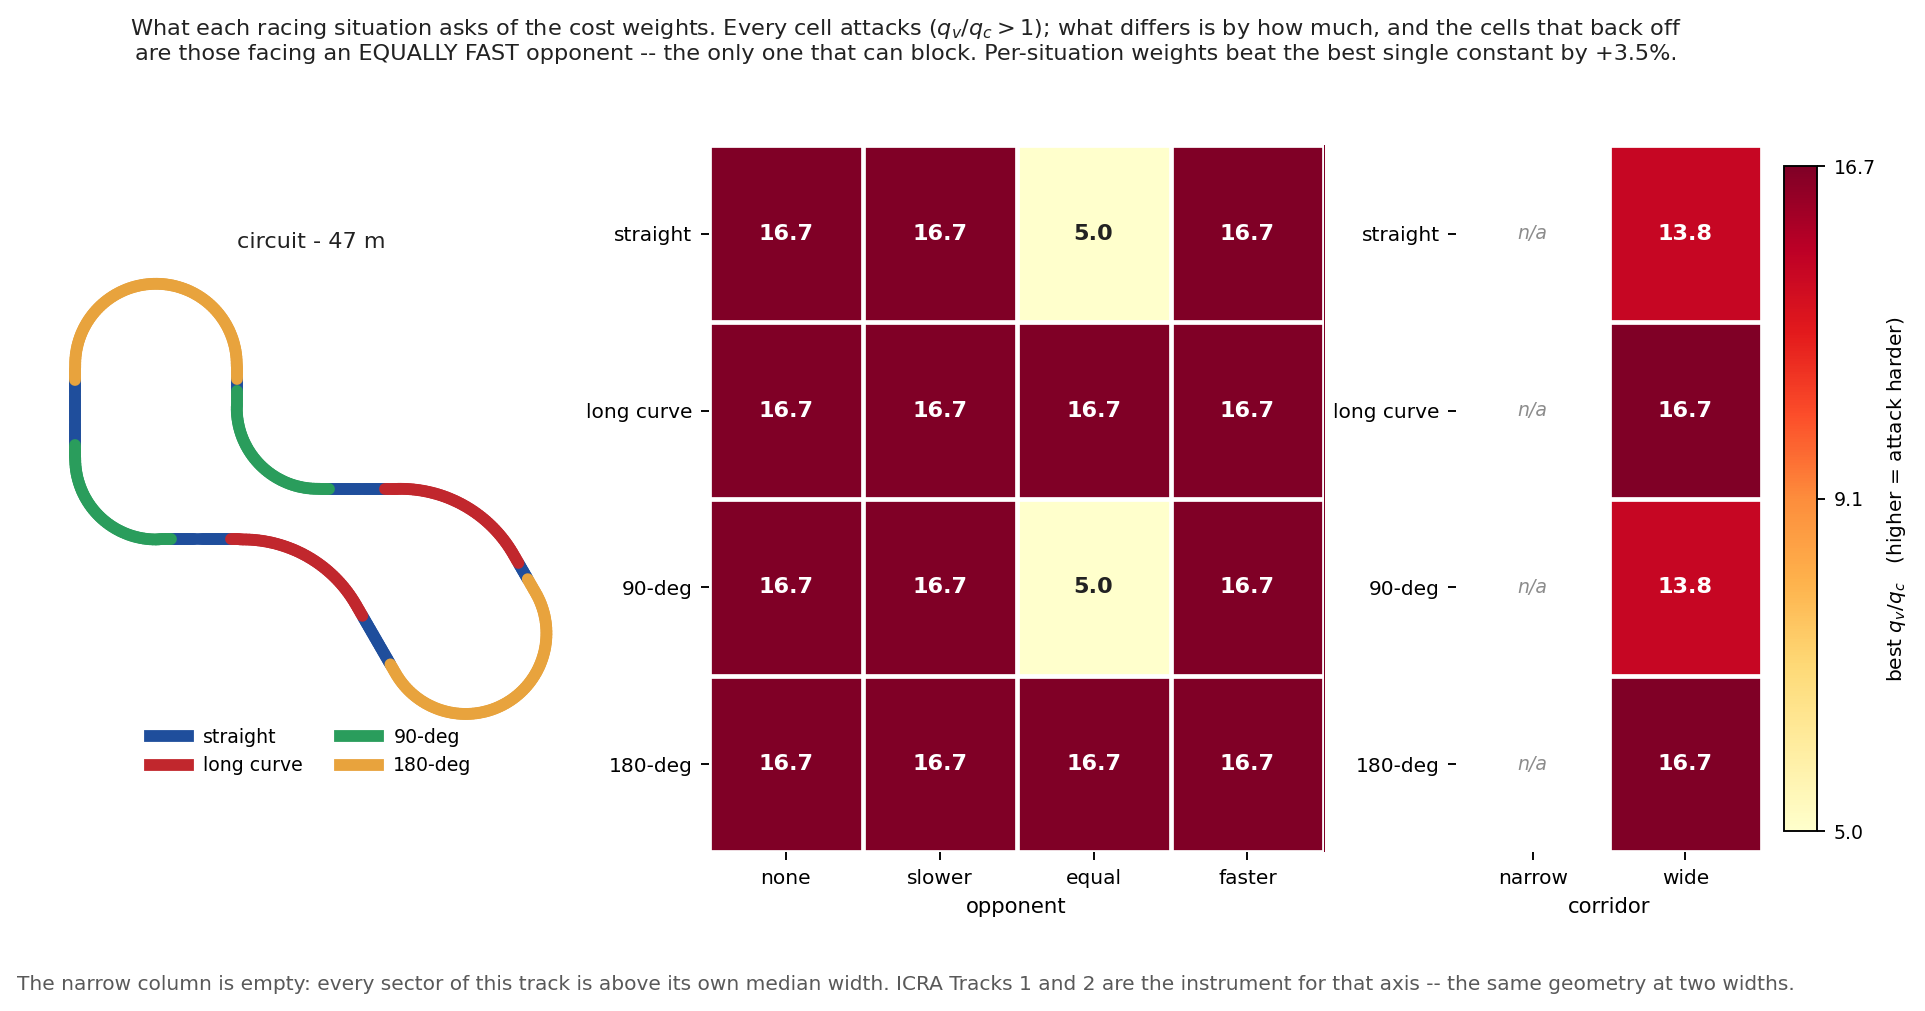
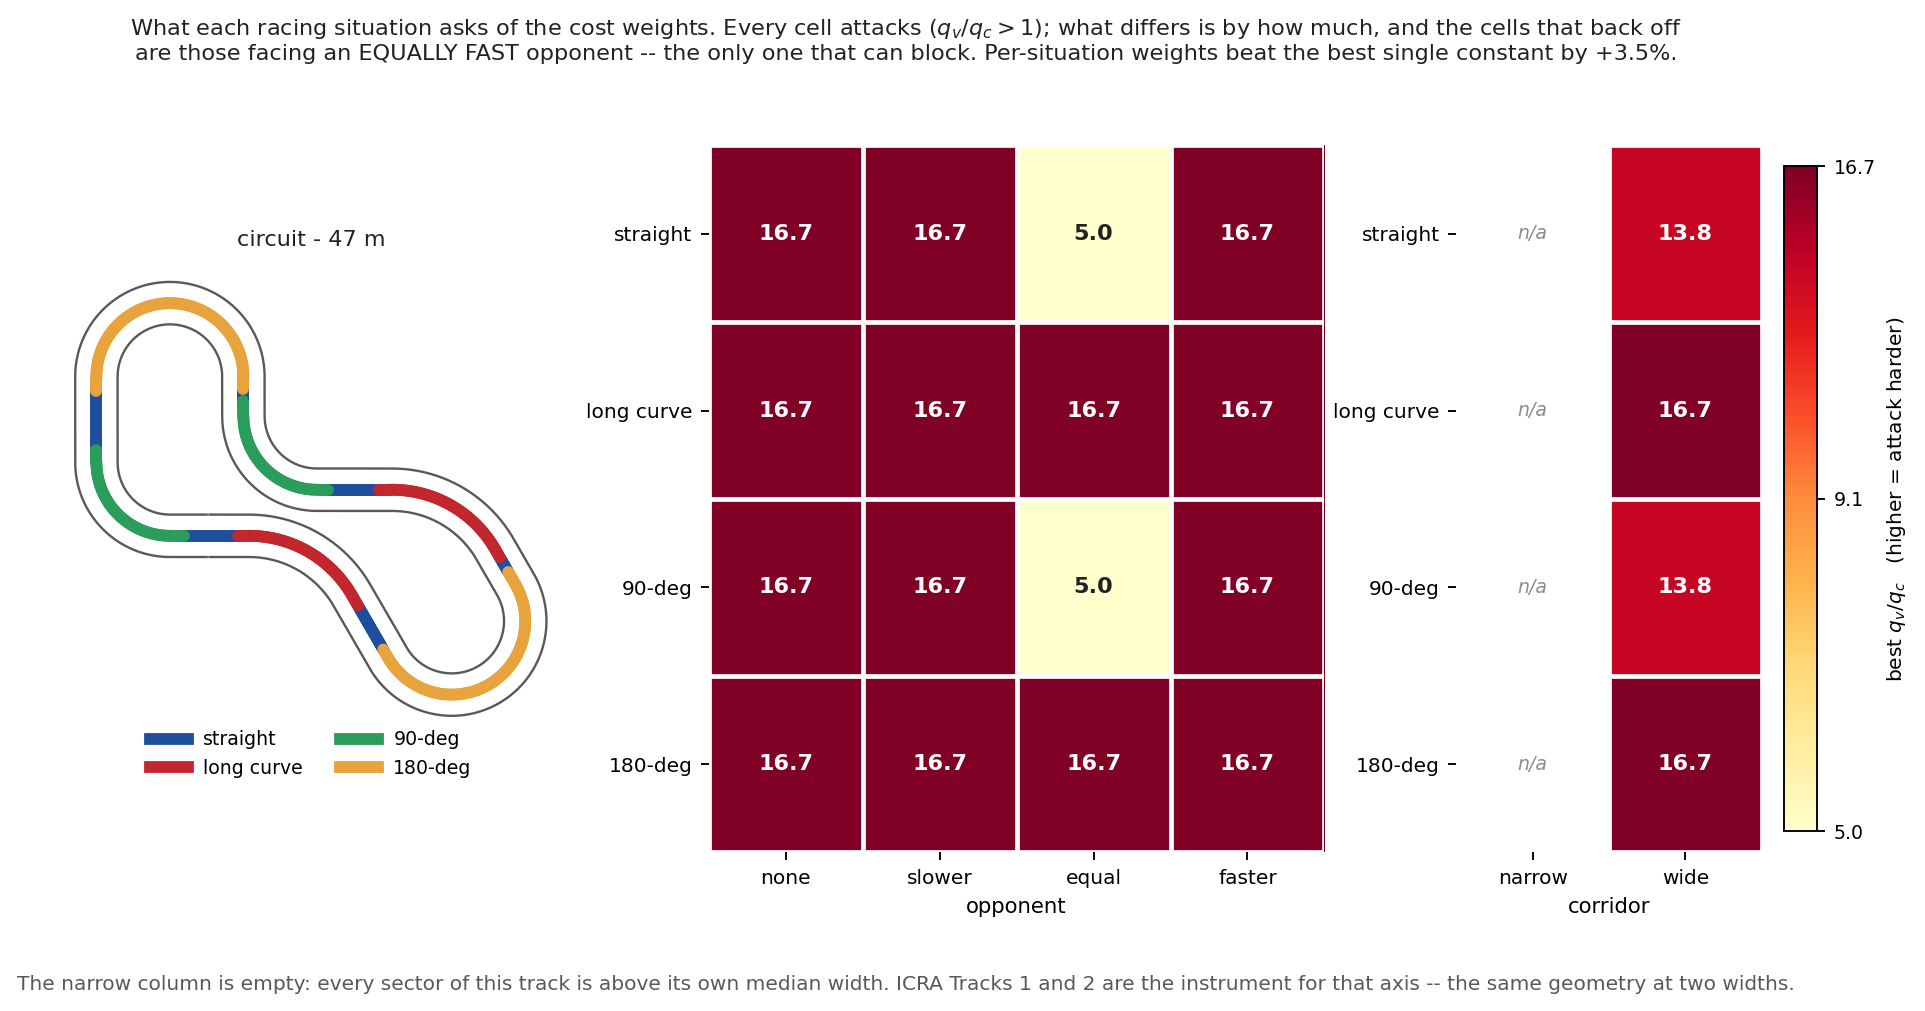
Draw the track BOUNDARIES, asked for repeatedly and not done
Every track figure here drew a centreline and left the walls implicit.
That is wrong everywhere and worst on the competition maps, whose
corridor varies by a factor of 4.5 (T1) and 6.4 (T2) round a lap: where
the track is wide and where it pinches is most of what a reader wants,
and a bare centreline hides all of it.

corridor_edges() builds both walls from the centreline gradient, since
Track carries no normal. Safe to draw now -- on the raceline tracks the
reconstructed centre is smoothed, so the offset edges reverse on 0.1-2.8%
of segments instead of tangling as they did against the raw optimiser
line, which is why an earlier attempt at this was removed rather than
fixed. Added to icra_grip, strategy, and the learning animation.

Also stops icra_grip lying in its own caption. It said the slowest
corners are "32% and 29%" of the cap while the titles directly beneath
it computed 25% and 26%: the numbers moved when the corridor centre was
reconstructed from the raceline and the hardcoded caption did not. It
reads them from the data now.

Claude-Session: https://claude.ai/code/session_01MGmixkzXxYczykY66RAVme

Changed region(s): [[0.0312, 0.276, 0.3117, 0.7666], [0.0935, 0.7052, 0.1558, 0.7666], [0.1247, 0.2146, 0.187, 0.2453]]

diff --git a/scripts/make_figures.py b/scripts/make_figures.py
@@ -39,6 +39,28 @@ AMBER, SURF = "#e8a33d", "#fcfcfb"
 CAT = (BLUE, RED, GREEN, AMBER)
 
 
+
+def corridor_edges(t):
+    """The two track BOUNDARIES, as (left, right) point arrays.
+
+    Every track figure here drew the centreline and left the walls implicit,
+    which is wrong for the competition maps in particular: their corridor
+    varies by a factor of 4.5 (T1) and 6.4 (T2) round a lap, so where the track
+    is wide or tight is most of what a reader wants to see, and a bare
+    centreline hides it entirely.
+
+    Built from the centreline gradient rather than a stored normal, since Track
+    has none. Safe to draw now: on the raceline tracks the reconstructed centre
+    is smoothed, so the offset edges reverse on 0.1-2.8% of segments rather
+    than tangling as they did against the raw optimiser line.
+    """
+    g = np.gradient(t.center, axis=0)
+    n = np.stack([g[:, 1], -g[:, 0]], axis=1) / np.linalg.norm(g, axis=1)[:, None]
+    wl = np.array([float(t.width(v)[0]) for v in t.s])[:, None]
+    wr = np.array([float(t.width(v)[1]) for v in t.s])[:, None]
+    return t.center + n * wl, t.center - n * wr
+
+
 def fig_geometry():
     """What the two errors in the cost function actually are.
 
@@ -564,6 +586,10 @@ def fig_strategy(track_name="circuit"):
         if m.any():
             axt.add_collection(LineCollection(segs[m], colors=[CAT[j]],
                                               linewidth=5.0, capstyle="round"))
+    el, er = corridor_edges(tr)
+    for edge in (el, er):
+        axt.plot(edge[:, 0], edge[:, 1], "-", color=INK, lw=1.0, alpha=0.75,
+                 zorder=3)
     axt.set_aspect("equal"); axt.autoscale_view(); axt.axis("off")
     axt.set_title(f"{d['track']} - {tr.length:.0f} m", fontsize=9.5, color=INK)
     axt.legend(handles=[plt.Line2D([], [], color=CAT[j], lw=5,
@@ -672,8 +698,9 @@ def fig_icra_grip():
     tracks = [("ICRA 2026 T1", Track.icra_t1_raceline()),
               ("ICRA 2026 T2", Track.icra_t2_raceline()),
               ("circuit (synthetic)", Track.circuit())]
-    fig, axes = plt.subplots(1, 3, figsize=(13.2, 4.6))
+    fig, axes = plt.subplots(1, 3, figsize=(14.0, 4.8))
     lc = None
+    slowest = []
     for ax, (name, tr) in zip(axes, tracks):
         k = np.abs([tr.curvature(v) for v in tr.s])
         vmax = np.minimum(np.sqrt(A_LAT_MAX / np.maximum(k, 1e-6)), SPEED_MAX)
@@ -683,6 +710,11 @@ def fig_icra_grip():
                             norm=plt.Normalize(2.0, SPEED_MAX),
                             linewidth=4.0, capstyle="round")
         lc.set_array(vmax[:-1])
+        # The track BOUNDARIES, so the corridor is visible and not implied.
+        el, er = corridor_edges(tr)
+        for edge in (el, er):
+            ax.plot(edge[:, 0], edge[:, 1], "-", color=INK, lw=1.1, alpha=0.75,
+                    zorder=3)
         ax.add_collection(lc)
         # The named sector at each point, as a ring outside the line: this is
         # what the policy receives, not a post-hoc annotation.
@@ -695,6 +727,7 @@ def fig_icra_grip():
                                   alpha=0.30, capstyle="round", zorder=0)
             ax.add_collection(ring)
         ax.set_aspect("equal"); ax.autoscale_view(); ax.axis("off")
+        slowest.append(float(vmax.min()))
         frac = float((vmax >= SPEED_MAX - 1e-9).mean())
         # y fixed, so the three titles sit on one line rather than following
         # each track's bounding box.
@@ -707,16 +740,20 @@ def fig_icra_grip():
     # Below the axes, not on top of a track.
     fig.legend(handles=handles, fontsize=8.5, frameon=False, ncol=4,
                loc="lower center", bbox_to_anchor=(0.45, -0.02))
-    cb = fig.colorbar(lc, ax=axes, fraction=0.02, pad=0.04)
+    cb = fig.colorbar(lc, ax=axes, fraction=0.02, pad=0.06)
     cb.set_label(f"grip-limited corner speed [m/s]   (cap {SPEED_MAX:.1f})",
                  fontsize=8.5)
     cb.ax.tick_params(labelsize=8)
+    # Computed, not typed. These numbers moved when the corridor centre was
+    # reconstructed from the raceline, and a hardcoded caption then disagreed
+    # with the titles directly beneath it.
+    pcts = ", ".join(f"{100 * v / SPEED_MAX:.0f}%" for v in slowest[:2])
     fig.suptitle("A track measures a weight policy only where it is grip-limited. "
-                 "The ICRA circuits are hardest --- their slowest corners are 32% "
-                 "and 29% of the\nspeed cap --- and they are the tracks these cars "
-                 "race on. Shading is the NAMED SECTOR, which the policy receives "
-                 "as a one-hot input.",
-                 fontsize=9.5, color=INK, y=1.02)
+                 f"The ICRA circuits are hardest --- their slowest corners are "
+                 f"{pcts} of the\nspeed cap --- and they are the tracks these cars "
+                 "race on. The thin outline is the TRACK BOUNDARY; the shading is "
+                 "the NAMED SECTOR,\nwhich the policy receives as a one-hot input.",
+                 fontsize=9.5, color=INK, y=1.04)
     fig.subplots_adjust(top=0.74, bottom=0.10, wspace=0.02)
     fig.savefig(OUT / "icra_grip.png", dpi=170, bbox_inches="tight")
     print("  wrote icra_grip.png")

diff --git a/scripts/anim_learning.py b/scripts/anim_learning.py
@@ -110,6 +110,15 @@ def render(track, R, path, title, fps=25, stride=2):
     # maze. The sector colouring also earns its place here: it is the one-hot
     # the policy receives, so the viewer sees what the network is told.
     from matplotlib.collections import LineCollection
+    # The BOUNDARIES, drawn on top of the sector ribbon: on the competition
+    # maps the corridor varies by a factor of 4.5-6.4 round a lap, and a bare
+    # centreline hides where the track is tight.
+    g = np.gradient(track.center, axis=0)
+    nn = np.stack([g[:, 1], -g[:, 0]], axis=1) / np.linalg.norm(g, axis=1)[:, None]
+    _wl = np.array([float(track.width(v)[0]) for v in track.s])[:, None]
+    _wr = np.array([float(track.width(v)[1]) for v in track.s])[:, None]
+    for _e in (track.center + nn * _wl, track.center - nn * _wr):
+        axt.plot(_e[:, 0], _e[:, 1], "-", color=INK, lw=1.0, alpha=0.75, zorder=2)
     pts = track.center.reshape(-1, 1, 2)
     segs = np.concatenate([pts[:-1], pts[1:]], axis=1)
     sec_at = np.array([int(track.sector(track.wrap(v))) for v in track.s])
